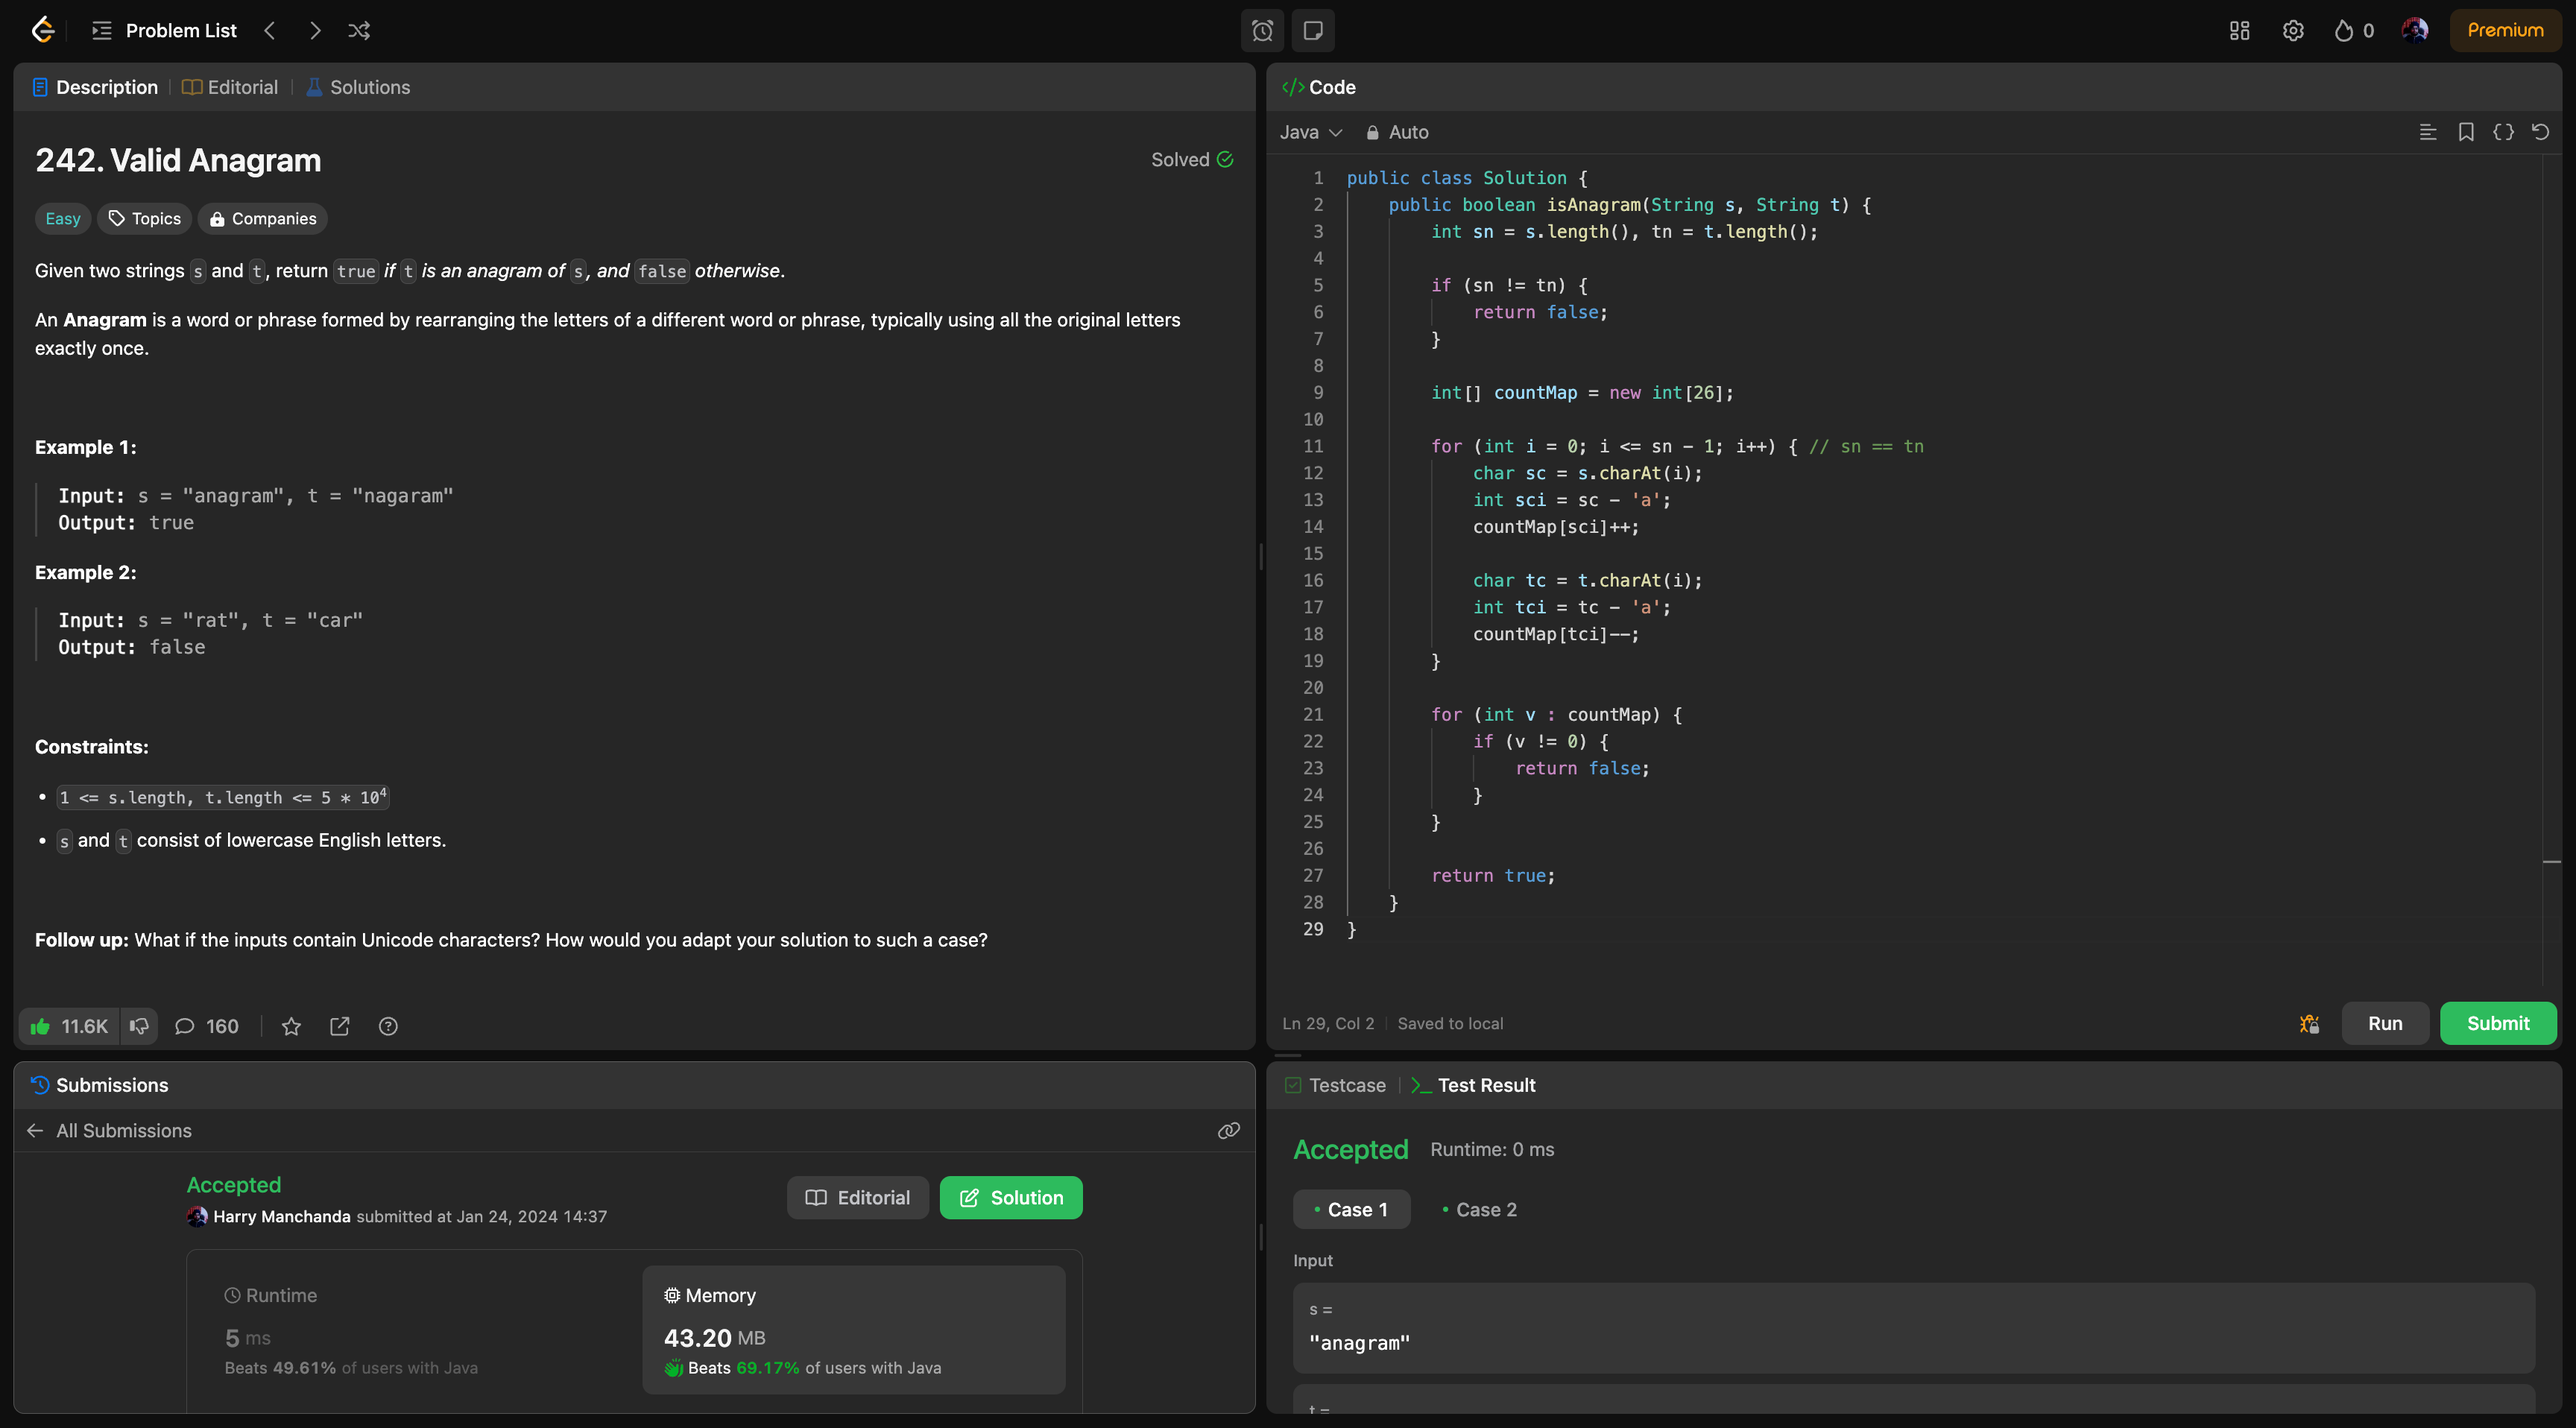
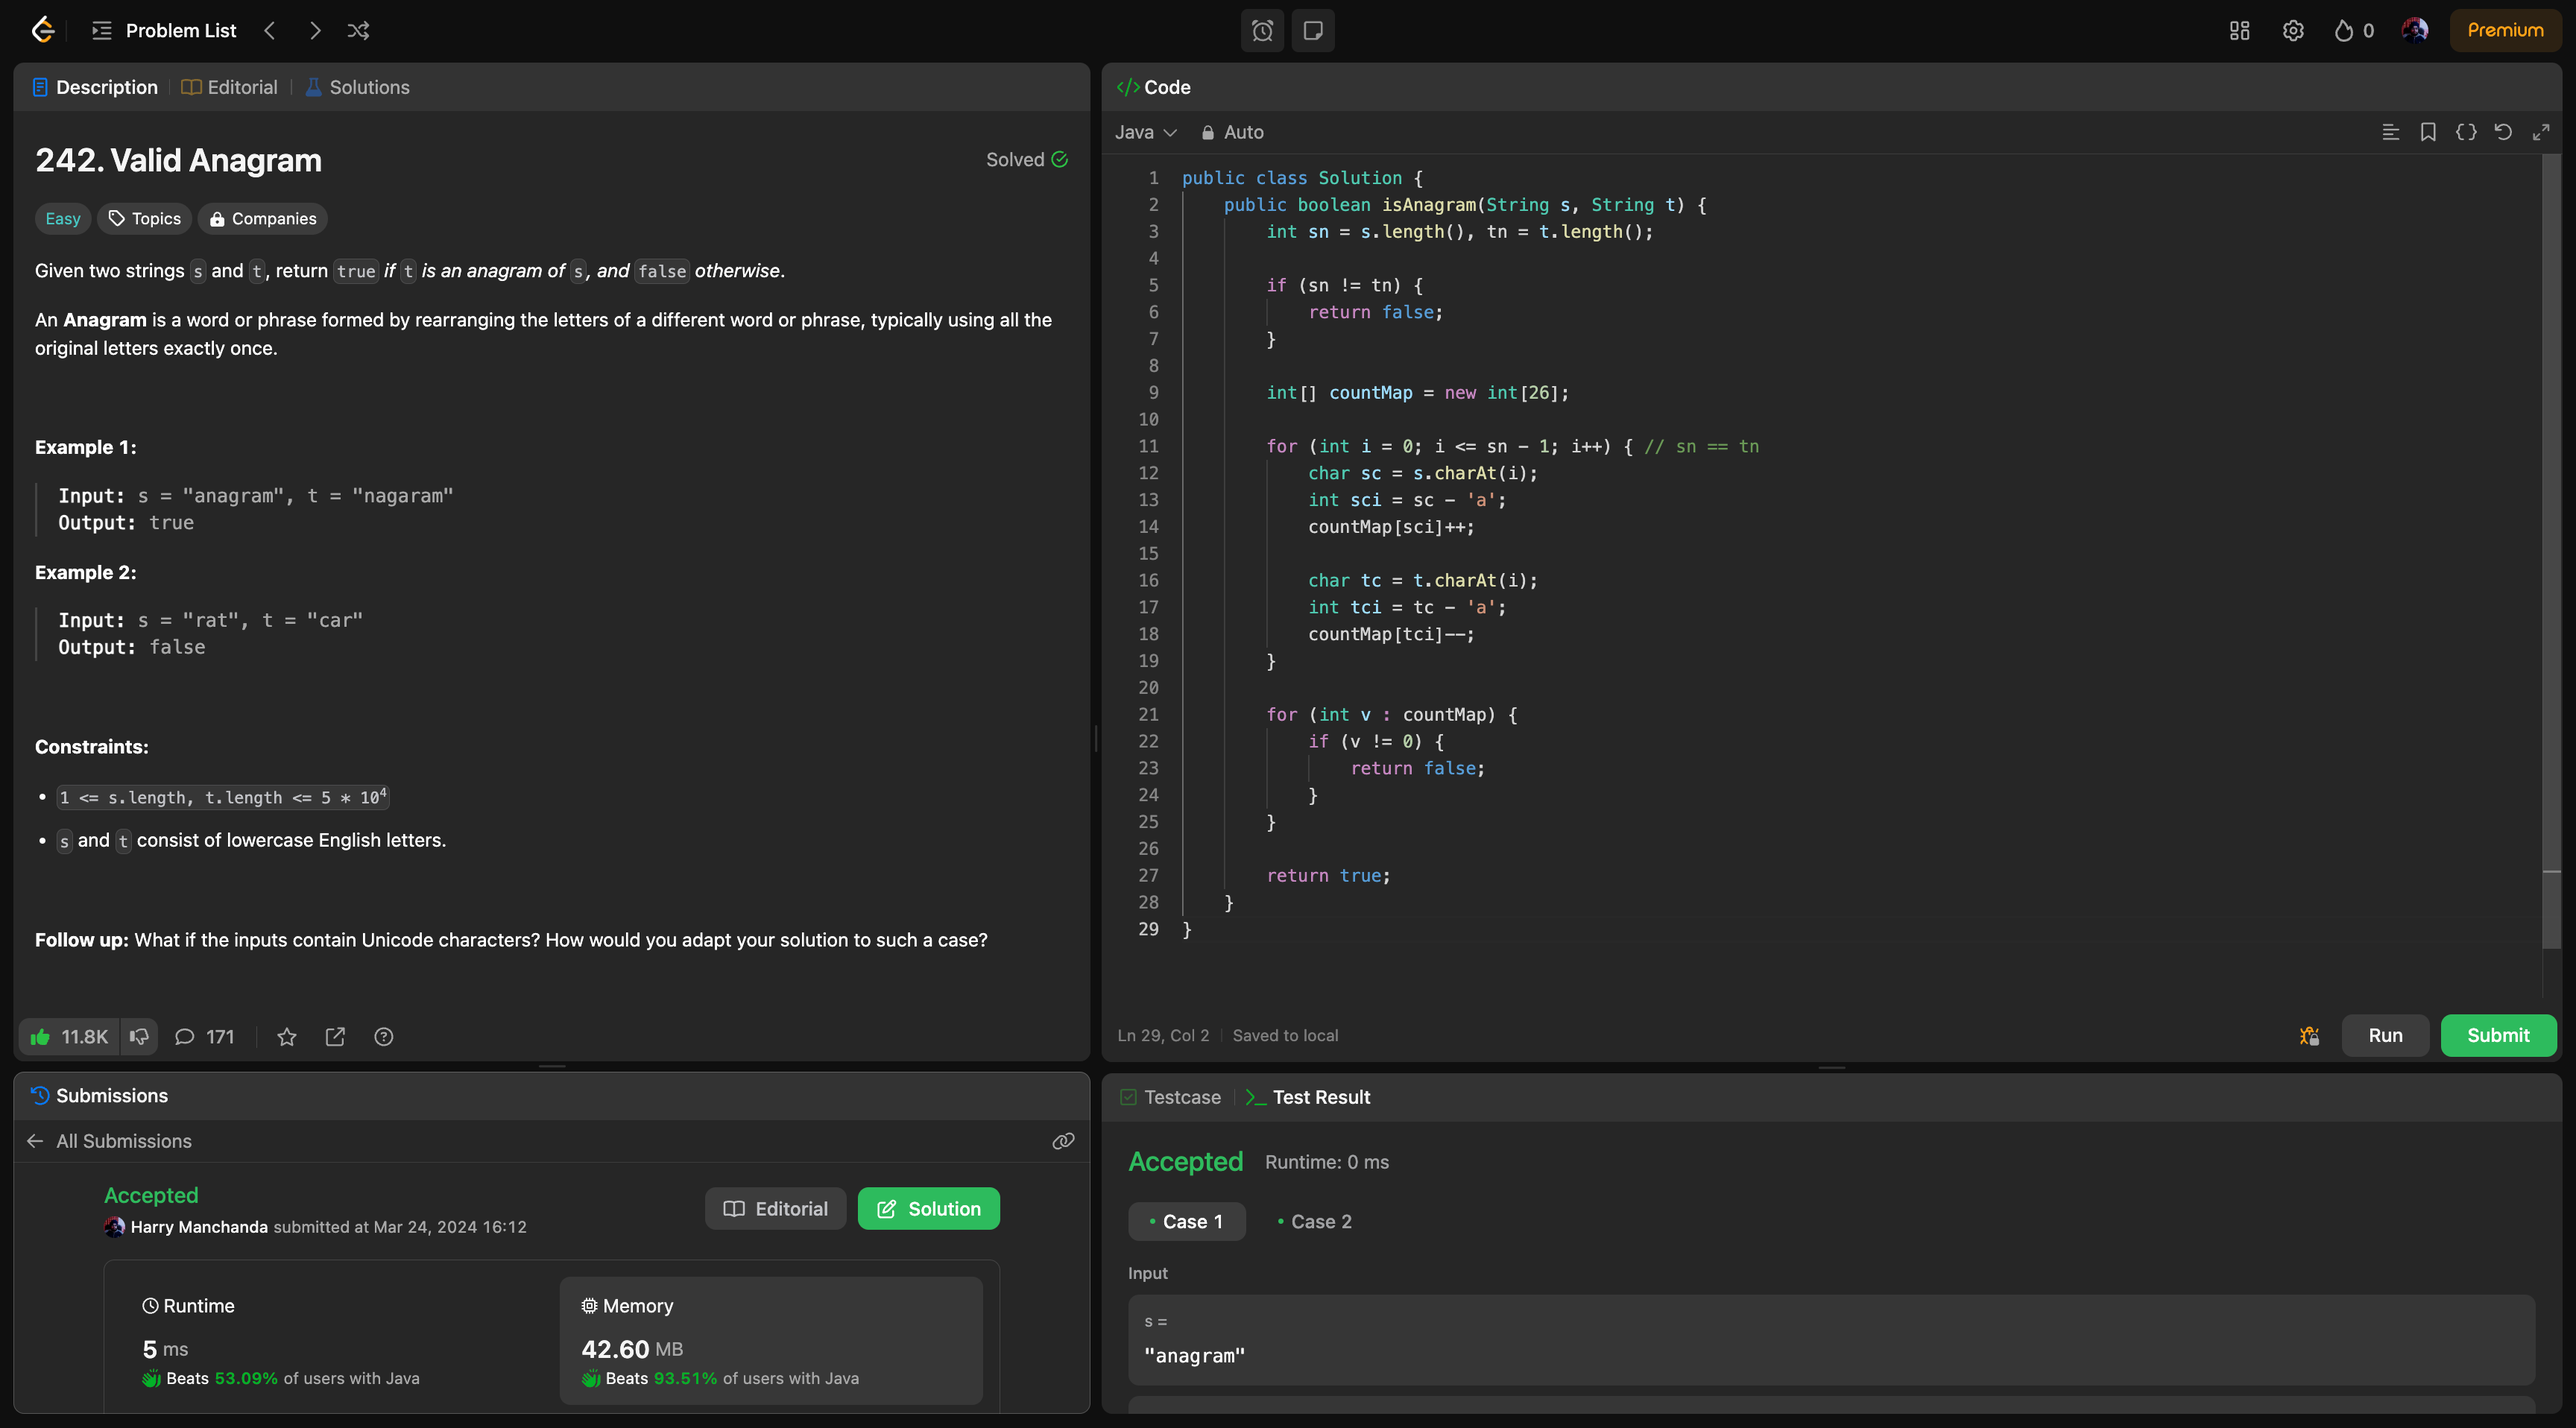
Update Valid Anagrams leetcode result
This also does some chore updates to the solution.

diff --git a/073-valid-anagrams/003-solution/Solution.java b/073-valid-anagrams/003-solution/Solution.java
@@ -2,7 +2,7 @@
  * Valid Anagrams
  * https://leetcode.com/problems/valid-anagram/description/
  * 
- * Approach: Hash Table (Map) without Unicode characters
+ * Approach: Hash Table (int[]) without Unicode characters
  * - Time complexity: O(n)
  * - Space complexity: O(1)
  */
